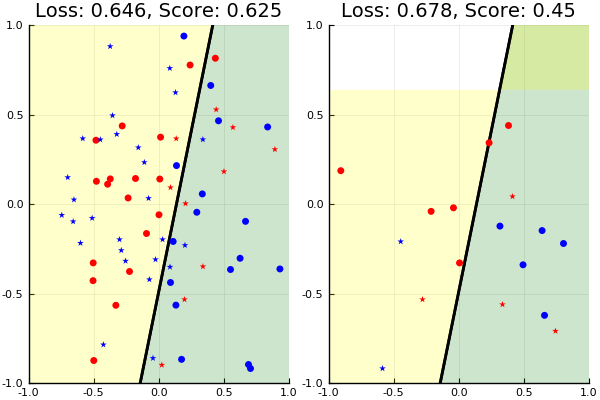
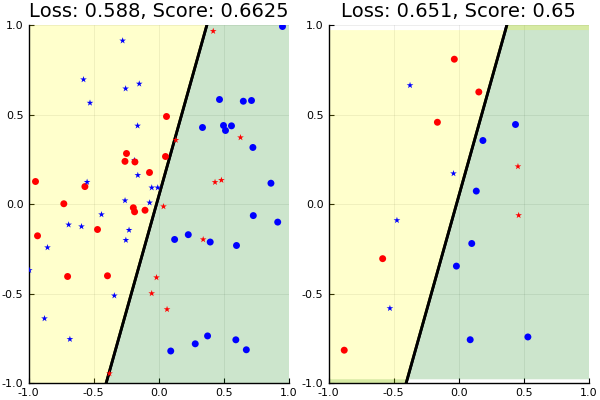
Proper overlapping comparison

diff --git a/playground/logclassifier_L12reg.md b/playground/logclassifier_L12reg.md
@@ -12,91 +12,54 @@ This is the logistic classifier with white noise applied and both L1 and L2 regu
     using LogBin
 
 
-## Generic tester
+# Overlapping blobs
 
-    function TestData(data, λ1=0.5, λ2=0.5)
-        cont = DataContainer(data)
-        addWhiteNoise!(cont)
-        X,y = extractArrays(cont)
-    
-        class = LogisticClassifierBinary(max_iter=10000, λ1=λ1, λ2=λ2)
-        initialiseWeights!(class, X)
-    
-        X_train,y_train, X_test,y_test = trainTestSplit(cont)
-    
-        fit!(class, X_train, y_train)
-    
-        @show class.w
-        @show class.b
-    
-        plot(plotFit(class, X_train, y_train),
-             plotFit(class, X_test, y_test))
-    end
-
-
-# Tests
-
-Each test has an image (left-side) for the training data and its application
-to the test data (right-side).
-
-
-## Blob
-
-    data = makeCloud(1)
-
-    '((-0.244686 -0.490033; -0.231836 -0.288295; … ; -0.270935 -0.382341; -0.27438 -0.359204)  (0  0  0  0  0  0  0  0  0  0  …  0  0  0  0  0  0  0  0  0  0))
-
-First test the normal method
-
-    p = TestData(data, 0., 0.)
-    xlims!(-1,1)
-    ylims!(-1,1)
-
-    class.w = [1.16341, 3.88964, 0.0965111]
-    class.b = -9.092417801594474
-
-![img](images/logclassifier_L1L2_no_reg.png)
-
-Now turn on the regularisation and see how the weight parameters are affected.
-
-    TestData(data, 0.5, 0.5)
-    xlims!(-1,1)
-    ylims!(-1,1)
-
-    class.w = [0.0397076, 0.659898, -0.0386549]
-    class.b = -3.3239623585851112
-
-![img](images/logclassifier_L1L2_with_reg.png)
-
-
-## Overlapping blobs
-
-    radii = [[0.2,0.],
+    centres = [[0.2,0.],
              [-0.2,0.]]
-    noises = [0.5, 0.5]
-    data = makeCloud(radii, noises)
-
-    '((-0.23614 0.0350279; -0.393309 0.111938; … ; 0.18917 -0.53131; 0.327249 -0.558079)  (0  0  0  0  0  0  0  0  0  0  …  1  1  1  1  1  1  1  1  1  1))
+    radii = [0.5, 0.5]
+    data = makeCloud(centres, radii)
+    
+     cont = DataContainer(data)
+     X,y = extractArrays(cont)
+     X_train,y_train, X_test,y_test = trainTestSplit(cont)
 
 First test the normal method
 
-    p = TestData(data, 0., 0.)
+       class = LogisticClassifierBinary(max_iter=10000, λ1=0., λ2=0.)
+       initialiseWeights!(class, X)
+    
+       fit!(class, X_train, y_train)
+    
+       @show class.w
+       @show class.b
+    
+       plot(plotFit(class, X_train, y_train),
+            plotFit(class, X_test, y_test))
     xlims!(-1,1)
     ylims!(-1,1)
 
-    class.w = [-1.15839, 0.322273, 0.230871]
-    class.b = 0.15612352496838766
+    class.w = [-1.89407, 0.731653]
+    class.b = -0.035016812552922764
 
 ![img](images/logclassifier_L1L2_overlap_no_reg.png)
 
 Now turn on the regularisation and see how the weight parameters are affected.
 
-    TestData(data, 0.5, 0.5)
+       class = LogisticClassifierBinary(max_iter=10000, λ1=10., λ2=0.5)
+       initialiseWeights!(class, X)
+    
+       fit!(class, X_train, y_train)
+    
+       @show class.w
+       @show class.b
+    
+       plot(plotFit(class, X_train, y_train),
+            plotFit(class, X_test, y_test))
     xlims!(-1,1)
     ylims!(-1,1)
 
-    class.w = [-1.45749, 0.0429642, -0.273365]
-    class.b = -0.19245610904091007
+    class.w = [-1.00664, -0.00618968]
+    class.b = 0.615944523774552
 
 ![img](images/logclassifier_L1L2_overlap_with_reg.png)
 
